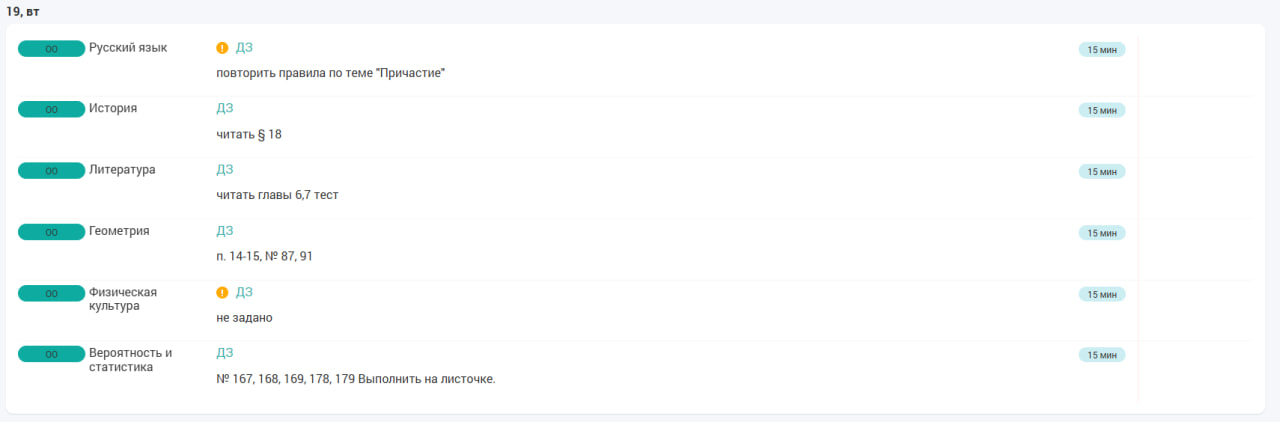
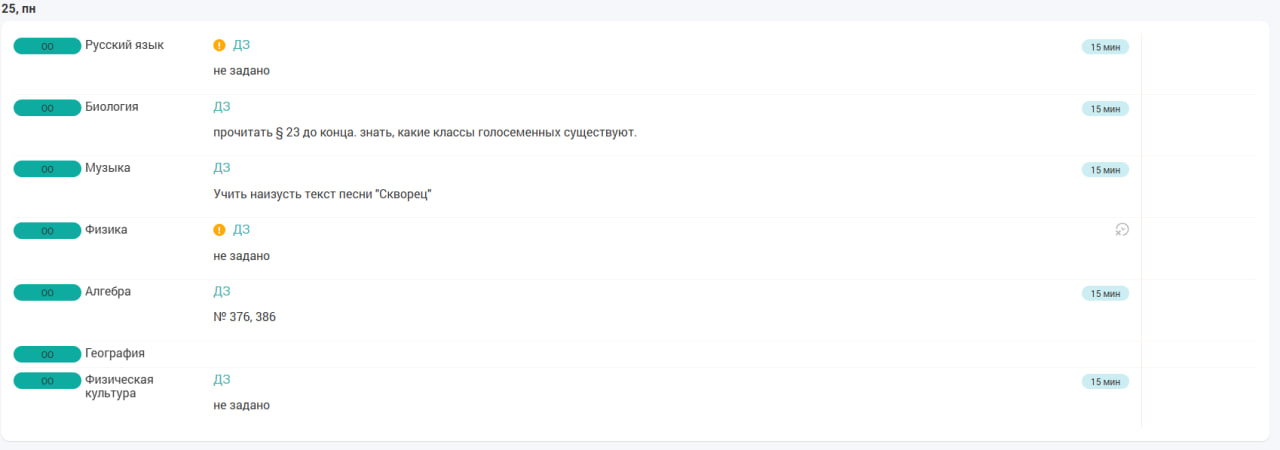
на 25

diff --git a/index.html b/index.html
@@ -8,7 +8,7 @@
   <div class="div">
     <h1 style="text-align: center;">Реклама моей новой игры:</h1>
     <p style="text-align: center;"><iframe frameborder="0" src="https://itch.io/embed/3069259?bg_color=ff2a62&amp;fg_color=ffffff&amp;link_color=ffffff&amp;border_color=ff2626" width="552" height="167"><a href="https://olane.itch.io/winterclicker"></iframe></a></p>
-    <h1 class="Text1"> ДЗ на 19 Ноября</h1>
+    <h1 class="Text1"> ДЗ на 25 Ноября</h1>
     <p class="Дз"><img src="Images/ДЗ.jpg" width="930" height="480"></img></p>
     <p class="Дз"><img src="Images/" width="930" height="480"></img></p>
     <p class="Расписание"><img src="Images/" width="1280" height="720"></img></p>
